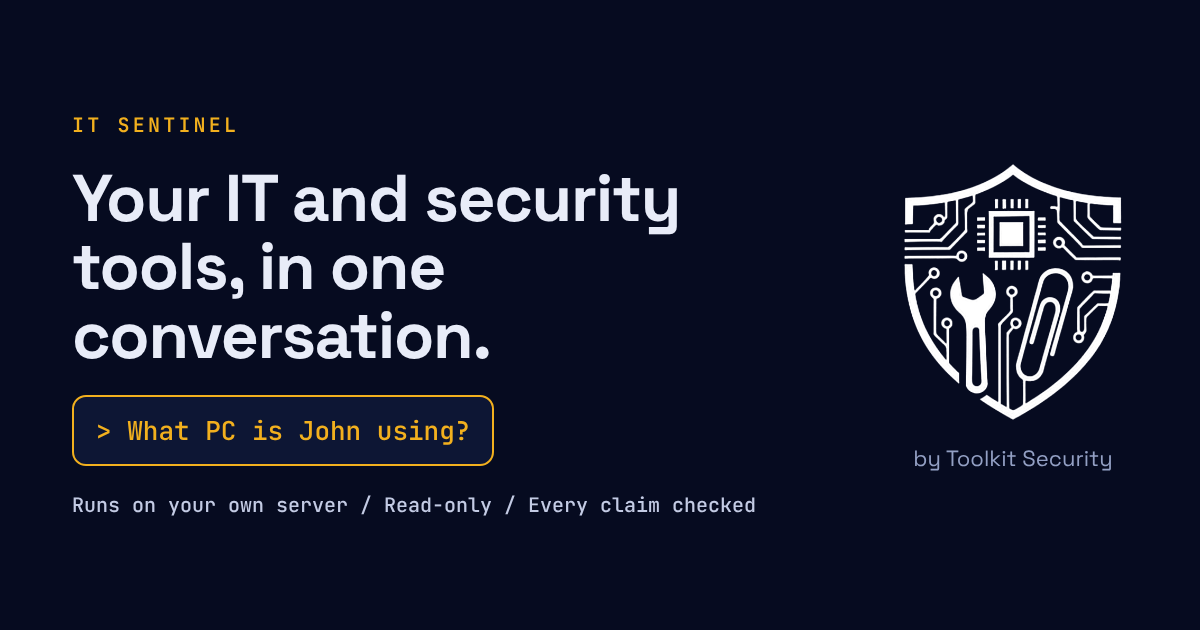
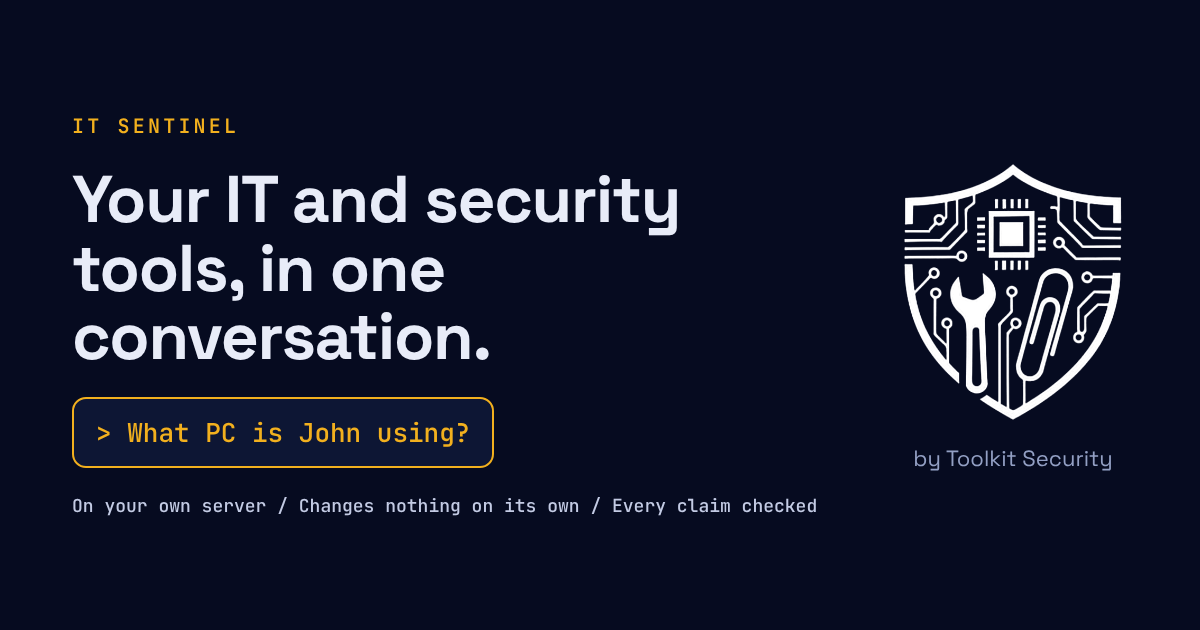
Say what it can change: nothing on its own; on request, a help-desk ticket and the firewall's block list
Replaces "read-only" claims that weren't true at Hartmann (HC's check, Jonathan's confirmation).
Adds the FAQ "Why doesn't it fix things itself?" (by design), and "up to a minute or so" for
long plans. The link-preview image drops "Read-only" too.

Claude-Session: https://claude.ai/code/session_01EVLD49UJy9xqsYgQHYofBA

diff --git a/public/index.html b/public/index.html
@@ -78,7 +78,7 @@
     <p class="actions"><a class="btn" href="#contact">Tell us about your environment →</a></p>
     <ul class="ticks">
       <li>Runs on your hardware</li>
-      <li>Read-only</li>
+      <li>Changes nothing on its own</li>
       <li>Every claim checked</li>
       <li>Delivered as a deployment</li>
     </ul>
@@ -123,10 +123,12 @@
             <p>Nowhere. The model, the data, the logs and every answer stay on your server. Nothing is sent
               to an AI service, or to us.</p></div>
           <div class="card"><h3>What access does it need?</h3>
-            <p>A dedicated read-only account for each system. You create the accounts, and you can see and
-              revoke each one.</p></div>
+            <p>A dedicated account for each system, read-only except for tickets and the firewall's block
+              list. You create the accounts, and you can see and revoke each one.</p></div>
           <div class="card"><h3>Can it change anything?</h3>
-            <p>No. It recommends, drafts tickets and writes the exact commands; a person runs them.</p></div>
+            <p>Nothing on its own. It finds problems and writes the exact fix; a person makes it. When you
+              ask, it can do two things: open or update a help-desk ticket, and add an address it detected to
+              the firewall's block list.</p></div>
           <div class="card"><h3>What if it makes something up?</h3>
             <p>Code checks each concrete claim against what the tools returned. A claim that isn't in the data
               is corrected or marked "not confirmed".</p></div>
@@ -184,7 +186,7 @@
         <ol class="stages">
           <li><strong>1 · Talk</strong>You tell us which tools you run and what you'd ask first.</li>
           <li><strong>2 · Size</strong>We advise on hardware: a server with a GPU, or a VM you provide.</li>
-          <li><strong>3 · Connect</strong>One read-only account per system. Alerts are routed to Teams.</li>
+          <li><strong>3 · Connect</strong>One account per system, read-only by default. Alerts are routed to Teams.</li>
           <li><strong>4 · Tune</strong>Rules are tuned to your noise, and answers grounded in your policies.</li>
           <li><strong>5 · Hand over</strong>Documentation, a walkthrough, and help as things change.</li>
         </ol>
@@ -198,11 +200,15 @@
             <p>The model and your data never leave your network. IT Sentinel does make outbound read calls to
               the cloud services you connect (Microsoft 365, a cloud EDR) and to threat-intelligence feeds.
               Leave those out and it needs no internet at all.</p></details>
+          <details><summary>Why doesn't it fix things itself?</summary>
+            <p>By design. It's built to find problems and tell you exactly how to fix them. Making the change
+              takes responsibility, and AI isn't ready to carry that without a person checking. So the fix
+              stays with you, and afterwards it re-checks that the fix worked.</p></details>
           <details><summary>Which AI model does it use?</summary>
             <p>An open-weight model that runs locally; the exact model depends on your hardware.</p></details>
           <details><summary>How fast is it?</summary>
-            <p>Most answers take a few seconds. A long plan or a full investigation can take around half a
-              minute.</p></details>
+            <p>Most answers take a few seconds. A long plan or a full investigation can take up to a minute
+              or so.</p></details>
           <details><summary>Does it work in languages other than English?</summary>
             <p>It answers in the language of the question. English and Hebrew are in daily use today.</p></details>
           <details><summary>We already have an outsourced SOC. Does this replace it?</summary>
